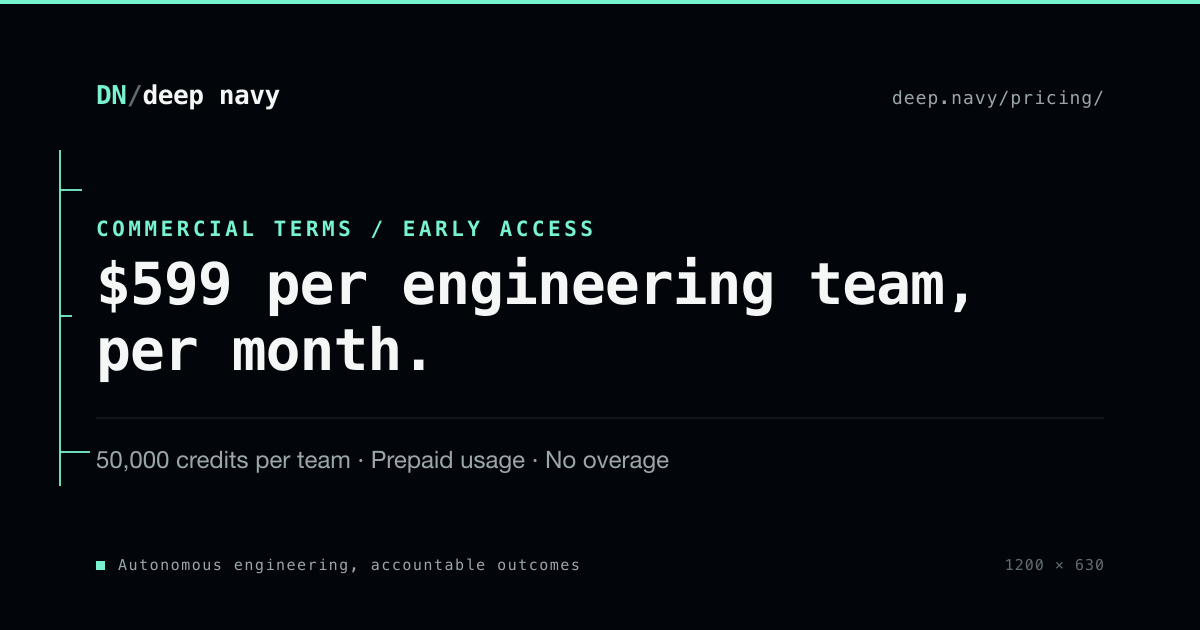
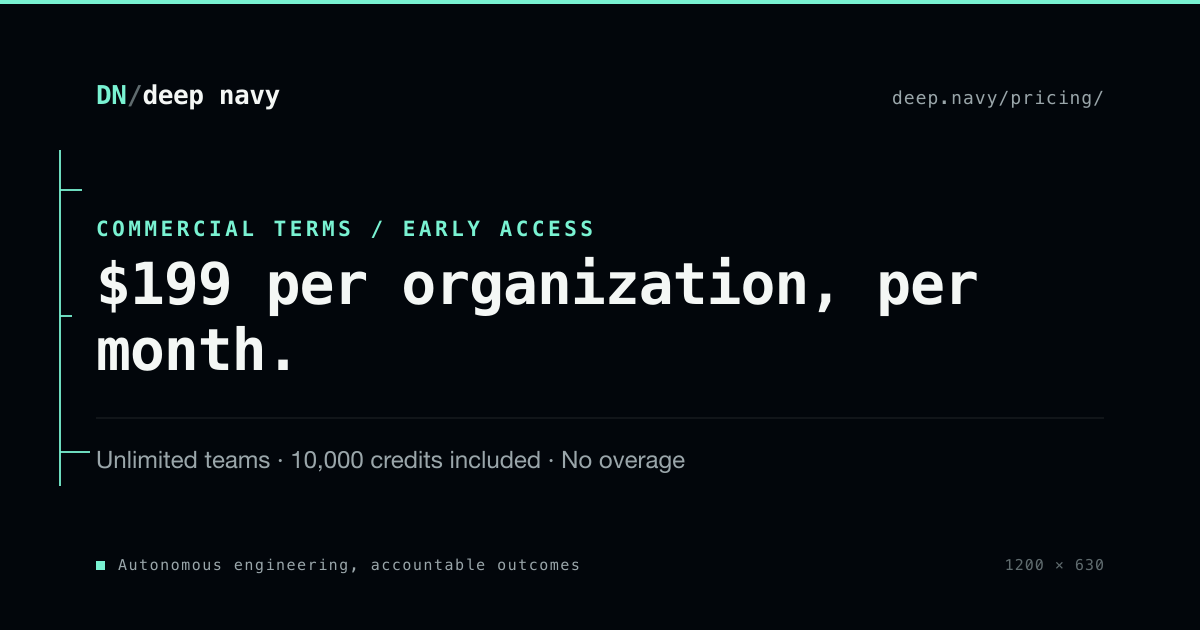
The site catches up: $199 for the organization, unlimited teams
platform-api removed the per-team charge this morning (ef24ce2). The base
Stripe item now licenses the ORGANIZATION at a quantity pinned to one, both
slot gates are gone, and the included credits are one grant per organization
per billing period rather than one per team. The site was still selling and
still pricing the old plan.

Marketing said the wrong number in four places. The homepage promised "$599 a
month for the team of six, 50,000 credits included"; the pricing page's h1,
its featured plan, its terms table and its own FAQ answered "per provisioned
engineering team" to the question "is this per organization or per team"; the
shared CTA and REDESIGN's "not doing" list agreed with them. All of it now
says what is actually billed: $199 a month for the organization, as many teams
as you run, 10,000 credits for the organization each period, and the
per-engineer add-on above each team's floor of three — which is the one thing
that genuinely still bills per seat, and keeps its designed $199.

The console was pricing a second team as if it were the first. teamPricing
always added the base, so the create screen quoted "Continue to payment —
$199/month" in front of a team the licence already covers, and Settings'
"Manage capacity" quoted a per-team total. teamPricing takes includeBase, the
create flow passes !subscriptionActive, and a covered team now reads
"Included" over "Covered by your subscription — no extra charge" with a button
[…]

diff --git a/assets/js/app.js b/assets/js/app.js
@@ -1868,6 +1868,10 @@
     });
   }
 
+  // The plan's recurring price, with the published figure as the fallback the
+  // create screen needs before the plan has come back. It licenses the
+  // ORGANIZATION, not a team: the name says "unit amount" because that is what
+  // the catalog calls it, and nothing may multiply it by a team count.
   function teamUnitAmountCents() {
     const money = session.billingPlan?.recurringPrice;
     const units = signedInt64Value(money?.units);
@@ -1876,7 +1880,7 @@
       const cents = units * 100n + BigInt(Math.round(nanos / 10_000_000));
       if (cents > 0n) return cents;
     }
-    return 59900n; // $599.00/month founding-team default
+    return 19900n; // $199.00/month founding-organization default
   }
 
   function formatCents(cents) {
@@ -1887,9 +1891,10 @@
     catch { return `$${dollars.toFixed(2)}`; }
   }
 
-  // Engineering-agent count: a floor of three (the adversarial-review floor) up to
-  // fifty. The team base price includes the three floor engineers; each engineer
-  // above the floor is a $199/month add-on, matched against the server.
+  // Engineering-agent count: a floor of three (the adversarial-review floor) up
+  // to fifty. Every team includes its three floor engineers at no extra charge;
+  // each engineer above the floor is a $199/month per-seat add-on, matched
+  // against the server.
   const ENGINEER_FLOOR = launchContract?.ENGINEER_FLOOR ?? 3;
   const ENGINEER_MAX = launchContract?.ENGINEER_MAX ?? 50;
 
@@ -1900,21 +1905,37 @@
     return Math.min(ENGINEER_MAX, Math.max(ENGINEER_FLOOR, parsed));
   }
 
+  // What creating THIS team costs. The base is charged once, by the team that
+  // starts the organization's subscription; every team after it is covered by
+  // that same licence and costs nothing unless it asks for engineers above the
+  // floor. Charging the base again is exactly the bug the unlimited-teams plan
+  // was shipped to end.
   function teamPricingFor(engineerCount) {
-    if (launchContract) return launchContract.teamPricing({ engineerCount, baseCents: teamUnitAmountCents() });
+    const includeBase = !session.subscriptionActive;
+    if (launchContract) return launchContract.teamPricing({ engineerCount, baseCents: teamUnitAmountCents(), includeBase });
     const count = normalizeEngineerCount(engineerCount);
     const additional = Math.max(0, count - ENGINEER_FLOOR);
     const base = teamUnitAmountCents();
     const addon = 19900n;
-    return { engineerCount: count, includedEngineers: ENGINEER_FLOOR, additionalEngineers: additional, baseCents: base, addonCents: addon, addonTotalCents: addon * BigInt(additional), totalCents: base + addon * BigInt(additional) };
+    return { engineerCount: count, includedEngineers: ENGINEER_FLOOR, additionalEngineers: additional, includesBase: includeBase, baseCents: base, addonCents: addon, addonTotalCents: addon * BigInt(additional), totalCents: (includeBase ? base : 0n) + addon * BigInt(additional) };
   }
 
-  // "$599 team (includes 3 engineers)" or, with add-ons,
-  // "$599 team + 2 × $199 engineers = $997/mo".
+  // What this team adds to the bill, in the customer's own arithmetic:
+  //
+  //   first team, floor crew   "$199 a month for your organization
+  //                             (includes 3 engineers, and every team after)"
+  //   later team, floor crew   "Covered by your subscription — no extra charge"
+  //   with engineers above     "… + 2 × $199 engineers = $597/mo"
   function pricingBreakdown(pricing) {
-    const base = `${formatCents(pricing.baseCents)} team`;
-    if (pricing.additionalEngineers <= 0) return `${base} (includes ${pricing.includedEngineers} engineers)`;
-    const engineers = `${pricing.additionalEngineers} × ${formatCents(pricing.addonCents)} engineers`;
+    const engineers = pricing.additionalEngineers > 0
+      ? `${pricing.additionalEngineers} × ${formatCents(pricing.addonCents)} engineers`
+      : "";
+    if (!pricing.includesBase) {
+      if (!engineers) return "Covered by your subscription — no extra charge";
+      return `${engineers} = ${formatCents(pricing.totalCents)}/mo on top of your subscription`;
+    }
+    const base = `${formatCents(pricing.baseCents)} a month for your organization`;
+    if (!engineers) return `${base} (includes ${pricing.includedEngineers} engineers, and every team after this one)`;
     return `${base} + ${engineers} = ${formatCents(pricing.totalCents)}/mo`;
   }
 
@@ -1935,6 +1956,13 @@
     if (!ui.teamSubmit || ui.teamSubmit.dataset.busy === "1") return;
     const pricing = teamPricingFor(ui.engineerInput ? ui.engineerInput.value : ENGINEER_FLOOR);
     const total = `${formatCents(pricing.totalCents)}/month`;
+    // A team the subscription already covers charges nothing, and the button
+    // has to say so: "Continue to payment — $199/month" in front of a free
+    // second team is the paywall the unlimited plan removed.
+    if (pricing.totalCents === 0n) {
+      ui.teamSubmit.textContent = "Create team — covered by your subscription";
+      return;
+    }
     ui.teamSubmit.textContent = savedCardChargeExpected()
       ? `Create team — ${total} on your saved card`
       : `Continue to payment — ${total}`;
@@ -1947,10 +1975,16 @@
     const pricing = teamPricingFor(ui.engineerInput ? ui.engineerInput.value : ENGINEER_FLOOR);
     if (ui.teamPriceAmount) {
       ui.teamPriceAmount.replaceChildren();
-      ui.teamPriceAmount.append(document.createTextNode(formatCents(pricing.totalCents)));
-      const per = document.createElement("small");
-      per.textContent = " / month";
-      ui.teamPriceAmount.append(per);
+      if (pricing.totalCents === 0n) {
+        // Not a zero standing in for a price: it IS the price, and the word is
+        // what says so. A "$0.00" here reads as a reading that failed.
+        ui.teamPriceAmount.append(document.createTextNode("Included"));
+      } else {
+        ui.teamPriceAmount.append(document.createTextNode(formatCents(pricing.totalCents)));
+        const per = document.createElement("small");
+        per.textContent = " / month";
+        ui.teamPriceAmount.append(per);
+      }
     }
     if (ui.teamPriceBreakdown) ui.teamPriceBreakdown.textContent = pricingBreakdown(pricing);
     if (ui.engineerDecrement) ui.engineerDecrement.disabled = pricing.engineerCount <= ENGINEER_FLOOR;
@@ -2750,7 +2784,11 @@
     ui.teamInput.disabled = !ready;
     ui.teamSubmit.disabled = !ready;
     ui.repositoryList.querySelectorAll("input").forEach((checkbox) => { checkbox.disabled = !ready; });
-    updateTeamSubmitLabel();
+    // The whole price block, not just the button. Whether this team costs
+    // anything depends on the subscription, which lands after the first paint:
+    // repainting only the button left the figure above it still charging for a
+    // team the licence already covers.
+    renderTeamSetupPricing();
   }
 
   function setAllStepsUnavailable(message, stateValue = "error") {

diff --git a/assets/js/launch-contract.js b/assets/js/launch-contract.js
@@ -383,7 +383,7 @@
   // The example run: the proof-of-work moment shown BEFORE the paywall.
   //
   // Every measured source on this funnel points at the same weakness — the
-  // customer is asked for $599 before seeing any agent work. Navattic's 2025
+  // customer is asked for $199 before seeing any agent work. Navattic's 2025
   // interactive-demo study (28,000+ demos) measured a 20-25% lift in qualified
   // leads for interactive proof over static claims, and NN/g's first-10-seconds
   // finding says the value proposition has to land immediately.
@@ -459,12 +459,17 @@
     ].filter(Boolean);
   }
 
-  // Team pricing mirrors the server: $599/month per team includes the floor of
-  // three engineering agents; every engineer above the floor is a $199/month
-  // add-on. The floor of three keeps two peer reviewers on every shipped ticket.
+  // Pricing mirrors the server: $199/month licenses the ORGANIZATION and covers
+  // as many teams as it runs, each with the floor of three engineering agents;
+  // every engineer above that floor is a $199/month per-seat add-on. The floor
+  // of three keeps two peer reviewers on every shipped ticket.
+  //
+  // The base was a per-team charge until the licence moved to the organization.
+  // A second team is now free, so the base is charged once — which is why
+  // teamPricing takes includeBase rather than always adding it.
   const ENGINEER_FLOOR = 3;
   const ENGINEER_MAX = 50;
-  const TEAM_BASE_CENTS = 59900n;
+  const ORGANIZATION_BASE_CENTS = 19900n;
   const ENGINEER_ADDON_CENTS = 19900n;
 
   function normalizeEngineerCount(value, { floor = ENGINEER_FLOOR, max = ENGINEER_MAX } = {}) {
@@ -483,23 +488,31 @@
     return null;
   }
 
-  // Pure price calculation: base + addon × max(0, engineerCount − floor). The base
-  // and add-on can be overridden (e.g. from the signed billing plan) but default
-  // to the founding-team figures.
-  function teamPricing({ engineerCount, baseCents, addonCents, floor = ENGINEER_FLOOR, max = ENGINEER_MAX } = {}) {
+  // Pure price calculation: (base if this team starts the subscription) plus
+  // addon × max(0, engineerCount − floor). The base and add-on can be
+  // overridden (e.g. from the signed billing plan) but default to the
+  // founding-organization figures.
+  //
+  // includeBase is the whole difference between the first team and the second.
+  // The first starts the organization's subscription and costs the base; every
+  // team after it is covered by that same licence and costs nothing unless it
+  // asks for engineers above the floor.
+  function teamPricing({ engineerCount, baseCents, addonCents, includeBase = true, floor = ENGINEER_FLOOR, max = ENGINEER_MAX } = {}) {
     const count = normalizeEngineerCount(engineerCount, { floor, max });
     const additional = Math.max(0, count - floor);
-    const base = toCents(baseCents) ?? TEAM_BASE_CENTS;
+    const base = toCents(baseCents) ?? ORGANIZATION_BASE_CENTS;
     const addon = toCents(addonCents) ?? ENGINEER_ADDON_CENTS;
     const addonTotal = addon * BigInt(additional);
+    const charged = includeBase ? base : 0n;
     return Object.freeze({
       engineerCount: count,
       includedEngineers: floor,
       additionalEngineers: additional,
+      includesBase: includeBase,
       baseCents: base,
       addonCents: addon,
       addonTotalCents: addonTotal,
-      totalCents: base + addonTotal
+      totalCents: charged + addonTotal
     });
   }
 
@@ -567,7 +580,7 @@
     LaunchContractError,
     PROVISIONING_STATE,
     REPOSITORY_SELECTION_MODE,
-    TEAM_BASE_CENTS,
+    ORGANIZATION_BASE_CENTS,
     accessibleRepositories,
     buildRepositorySelectionRequest,
     createMutationKeys,

diff --git a/_includes/app-shell.html b/_includes/app-shell.html
@@ -177,13 +177,13 @@
             </fieldset>
             <div class="team-price">
               <div>
-                <div class="team-price-amt" data-team-price-amount>$599<small> / month</small></div>
-                <p class="team-price-breakdown" data-team-price-breakdown>$599 team (includes 3 engineers)</p>
+                <div class="team-price-amt" data-team-price-amount>$199<small> / month</small></div>
+                <p class="team-price-breakdown" data-team-price-breakdown>$199 a month for your organization (includes 3 engineers, and every team after this one)</p>
               </div>
               <p class="form-help form-help-neutral" id="team-name-help">Charged when you confirm. Cancel anytime in Settings.</p>
             </div>
             <p class="form-error" id="team-name-error" data-team-error role="alert" hidden></p>
-            <button class="button button-primary" type="submit" disabled>Continue to payment — $599/month</button>
+            <button class="button button-primary" type="submit" disabled>Continue to payment — $199/month</button>
             <!-- The kit's closing note, told truthfully: the Engineering
                  Manager reads the ticked repositories once the team is live,
                  not the instant the button is pressed. -->

diff --git a/assets/css/main.css b/assets/css/main.css
@@ -1772,7 +1772,7 @@ pre { overflow-x: auto; padding: 1.2rem; border: 1px solid var(--line); border-r
 .settings-list dd { margin: 0; min-width: 0; overflow-wrap: anywhere; color: var(--muted-bright); font-size: .8rem; text-align: right; }
 /* Evidence is a typeface: machine facts (logins, org slugs, card summaries)
    read in mono; money stacks in tabular figures and always carries its unit
-   in the same string ($599.00/month — the renderer never splits them). */
+   in the same string ($199.00/month — the renderer never splits them). */
 .settings-list dd.settings-fact { overflow: hidden; font-family: var(--font-mono); font-size: .72rem; letter-spacing: .01em; text-overflow: ellipsis; white-space: nowrap; overflow-wrap: normal; }
 .settings-list dd.settings-fig { font-family: var(--font-mono); font-size: .78rem; font-variant-numeric: tabular-nums; white-space: nowrap; }
 .settings-list dd.settings-emphasis { color: var(--ink); font-size: .95rem; font-weight: 600; }

diff --git a/_includes/cta.html b/_includes/cta.html
@@ -3,7 +3,7 @@
     <div>
       <span class="eyebrow">Early access / founding teams</span>
       <h2 id="cta-title">Start with one bounded objective.</h2>
-      <p>$599/month per team — a Product Manager, an Engineering Manager, a Designer, and three engineers working your repositories. Add engineers for $199/month each.</p>
+      <p>$199/month for your organization — as many teams as you need, each with a Product Manager, an Engineering Manager, a Designer, and three engineers working your repositories. Add engineers for $199/month each.</p>
       <p class="cta-reassure">Sign in with GitHub — free until you create a team. No setup fees. Cancel any time.</p>
     </div>
     <div class="button-row">

diff --git a/pricing/index.md b/pricing/index.md
@@ -10,8 +10,8 @@ updated: 2026-08-22
 <section class="lp-hero lp-hero-sub">
   <div class="lp-shell dn-stagger">
     <p class="lp-eyebrow">Commercial terms · early access</p>
-    <h1 class="lp-h1 lp-h1-sub">$599 per team, per month. <em>$199 per added engineer</em>.</h1>
-    <p class="lp-lede">Every team ships with a Product Manager, an Engineering Manager, a Designer, and three engineers, plus 50,000 engineering credits per paid period. Five engineers? $599 + 2 × $199 = $997/month — the app shows the exact total before you pay, and there are no setup fees or hidden charges. Work stops before an unpaid balance can accrue.</p>
+    <h1 class="lp-h1 lp-h1-sub">$199 per organization, per month. <em>Unlimited teams</em>.</h1>
+    <p class="lp-lede">One subscription covers your whole organization and as many teams as you want to run. Every team ships with a Product Manager, an Engineering Manager, a Designer, and three engineers, and the organization gets 10,000 engineering credits each billing period. Want a fourth engineer on a team? $199 a month for that seat — the app shows the exact total before you pay, and there are no setup fees or hidden charges. Work stops before an unpaid balance can accrue.</p>
     <p class="lp-note">Term sheet v0.3 · Updated July 17, 2026</p>
   </div>
 </section>
@@ -19,16 +19,16 @@ updated: 2026-08-22
 <section class="lp-section">
   <div class="lp-shell">
     <p class="lp-label">The plans</p>
-    <h2 class="lp-h2">Per team, not per token.</h2>
-    <p class="lp-sub">One subscription per provisioned team, engineers added as line items, usage prepaid as credits. Every number below is the number Stripe bills; the app shows the exact monthly total on the pay button before you pay.</p>
+    <h2 class="lp-h2">Per organization, not per token.</h2>
+    <p class="lp-sub">One subscription per organization, engineers above the floor added as line items, usage prepaid as credits. Every number below is the number Stripe bills; the app shows the exact monthly total on the pay button before you pay.</p>
     <ul class="lp-plans lp-stagger-reveal">
       <li class="lp-plan lp-plan-featured dn-reveal">
-        <span class="lp-plan-name">Founding team</span>
-        <span class="lp-plan-price">$599 <span class="lp-plan-per">per team · month</span></span>
-        <p class="lp-plan-body">The six specialists, working in repositories you choose.</p>
+        <span class="lp-plan-name">Founding organization</span>
+        <span class="lp-plan-price">$199 <span class="lp-plan-per">per organization · month</span></span>
+        <p class="lp-plan-body">As many teams of six specialists as you need, working in repositories you choose.</p>
         <ul class="lp-plan-list">
-          <li>Product manager, engineering manager, designer, three engineers</li>
-          <li>50,000 engineering credits per team, per paid billing period</li>
+          <li>Unlimited teams — each with a product manager, engineering manager, designer and three engineers</li>
+          <li>10,000 engineering credits for the whole organization, per paid billing period</li>
           <li>Unlimited issues and pull requests</li>
           <li>Two peer reviews plus manager approval on every merge</li>
           <li>Monthly; cancellation takes effect at period end</li>
@@ -48,7 +48,7 @@ updated: 2026-08-22
       <li class="lp-plan dn-reveal">
         <span class="lp-plan-name">Credit top-up</span>
         <span class="lp-plan-price">$100 <span class="lp-plan-per">per 10,000 credits</span></span>
-        <p class="lp-plan-body">Prepaid usage for the selected team. No postpaid overage, ever.</p>
+        <p class="lp-plan-body">Prepaid usage on top of the included grant. No postpaid overage, ever.</p>
         <ul class="lp-plan-list">
           <li>1 credit = $0.01 of billable model, compute, storage, and service usage</li>
           <li>Credits post only after a signed paid webhook — checkout completion in the browser is not fulfillment</li>
@@ -56,7 +56,7 @@ updated: 2026-08-22
         </ul>
       </li>
     </ul>
-    <p class="lp-plans-note">Additional repositories are customer controlled: an organization owner updates GitHub App access, then you update the deep navy selection. Every provisioned team consumes one paid subscription slot — the API blocks creation when no paid slot remains.</p>
+    <p class="lp-plans-note">Additional repositories are customer controlled: an organization owner updates GitHub App access, then you update the deep navy selection. Creating a team needs an active subscription, an active GitHub installation and a repository it can reach — not a spare slot, because there are no slots to run out of.</p>
   </div>
 </section>
 
@@ -64,9 +64,9 @@ updated: 2026-08-22
   <div class="lp-shell">
     <p class="lp-label">The terms sheet</p>
     <h2 class="lp-h2" id="terms-title">Every commercial field, and where it is confirmed.</h2>
-    <p class="lp-sub">Paid capacity, prepaid usage, and one accountable team ledger. Each field names the place you can read it back — a term that cannot be checked does not belong on this page.</p>
-    <div class="data-table-wrap"><table class="data-table"><thead><tr><th>Commercial field</th><th>Launch term</th><th>Where confirmed</th></tr></thead><tbody><tr><td>Team subscription</td><td>$599 USD per team each month — includes the Product Manager, Engineering Manager, Designer, and three engineers</td><td>Signed-in plan, subscription quantity, and Stripe invoice</td></tr><tr><td>Additional engineers</td><td>$199 USD per engineer each month, from the fourth engineer up to fifty; three is the floor so every shipped change gets two peer reviews</td><td>Per-engineer subscription item and Stripe invoice</td></tr><tr><td>Changing engineer count</td><td>Increasing charges the prorated remainder of the period now; decreasing credits the unused portion to your next invoice</td><td>Team settings and the following Stripe invoice</td></tr><tr><td>Included credits</td><td>50,000 engineering credits per team per paid billing period</td><td>Webhook-confirmed team credit ledger</td></tr><tr><td>Credit value</td><td>1 credit = $0.01 of billable model, compute, storage, and service usage</td><td>Plan and measured usage ledger</td></tr><tr><td>Prepaid top-up</td><td>$100 USD for 10,000 additional team credits</td><td>Server-owned catalog and Stripe payment</td></tr><tr><td>Additional usage</td><td>No postpaid overage; a positive reserved balance is required before work starts</td><td>Team budget and usage reservation</td></tr><tr><td>Renewal and cancellation</td><td>Monthly; cancellation takes effect at period end</td><td>Stripe subscription and Billing Portal</td></tr></tbody></table></div>
-    <p class="lp-sub lp-terms-note">Stripe renders the encrypted payment fields inside deep navy’s own checkout — card, Apple Pay, or Google Pay. Your card details never touch deep navy’s servers, the exact monthly total is on the pay button, and the card is saved once and reused for every additional team.</p>
+    <p class="lp-sub">One organization licence, prepaid usage, and one accountable ledger per team. Each field names the place you can read it back — a term that cannot be checked does not belong on this page.</p>
+    <div class="data-table-wrap"><table class="data-table"><thead><tr><th>Commercial field</th><th>Launch term</th><th>Where confirmed</th></tr></thead><tbody><tr><td>Organization subscription</td><td>$199 USD per organization each month — unlimited teams, each with a Product Manager, Engineering Manager, Designer, and three engineers</td><td>Signed-in plan, the Billing screen, and the Stripe invoice</td></tr><tr><td>Additional engineers</td><td>$199 USD per engineer each month, from the fourth engineer up to fifty; three is the floor so every shipped change gets two peer reviews</td><td>Per-engineer subscription item and Stripe invoice</td></tr><tr><td>Changing engineer count</td><td>Increasing charges the prorated remainder of the period now; decreasing credits the unused portion to your next invoice</td><td>Team settings and the following Stripe invoice</td></tr><tr><td>Included credits</td><td>10,000 engineering credits for the whole organization per paid billing period</td><td>Webhook-confirmed credit ledger</td></tr><tr><td>Credit value</td><td>1 credit = $0.01 of billable model, compute, storage, and service usage</td><td>Plan and measured usage ledger</td></tr><tr><td>Prepaid top-up</td><td>$100 USD for 10,000 additional credits</td><td>Server-owned catalog and Stripe payment</td></tr><tr><td>Additional usage</td><td>No postpaid overage; a positive reserved balance is required before work starts</td><td>Team budget and usage reservation</td></tr><tr><td>Renewal and cancellation</td><td>Monthly; cancellation takes effect at period end</td><td>Stripe subscription and Billing Portal</td></tr></tbody></table></div>
+    <p class="lp-sub lp-terms-note">Stripe renders the encrypted payment fields inside deep navy’s own checkout — card, Apple Pay, or Google Pay. Your card details never touch deep navy’s servers, the exact monthly total is on the pay button, and the card is saved once — a second team is covered by the same subscription and charges nothing.</p>
     <div class="lp-cta"><a class="lp-btn lp-btn-github" href="{{ '/app/?signin=1' | relative_url }}">Create your team</a><a class="lp-btn lp-btn-quiet" href="mailto:hello@deep.navy?subject=deep%20navy%20pilot%20terms">Discuss terms</a></div>
   </div>
 </section>
@@ -86,11 +86,11 @@ updated: 2026-08-22
       </div>
       <div class="lp-faq-item dn-reveal">
         <dt class="lp-faq-q">Can usage exceed the available balance?</dt>
-        <dd class="lp-faq-a">No postpaid overage is enabled. The runtime must reserve a positive team balance before billable work begins; otherwise it stops and asks for a prepaid top-up.</dd>
+        <dd class="lp-faq-a">No postpaid overage is enabled. The runtime must reserve a positive balance from the organization’s credit pool before billable work begins; otherwise the team stops and asks for a prepaid top-up.</dd>
       </div>
       <div class="lp-faq-item dn-reveal">
-        <dt class="lp-faq-q">Is the $599 price per organization or per team?</dt>
-        <dd class="lp-faq-a">Per provisioned engineering team. Every non-deleted team requires a paid subscription slot and receives its own period allowance and attributable usage ledger.</dd>
+        <dt class="lp-faq-q">Is the $199 price per organization or per team?</dt>
+        <dd class="lp-faq-a">Per organization. One subscription licenses the whole organization and covers as many teams as you run — a second team costs nothing. Each team still keeps its own attributable usage ledger, and the included credits are one grant the organization shares.</dd>
       </div>
       <div class="lp-faq-item dn-reveal">
         <dt class="lp-faq-q">Where does payment happen?</dt>

diff --git a/index.md b/index.md
@@ -22,7 +22,7 @@ extra_css: /assets/css/home.css
       <a class="lp-btn lp-btn-github" href="{{ '/app/?signin=1' | relative_url }}"><svg class="github-mark" width="20" height="20" viewBox="0 0 16 16" role="img" aria-hidden="true" focusable="false"><path fill="currentColor" d="M8 0C3.58 0 0 3.58 0 8c0 3.54 2.29 6.53 5.47 7.59.4.07.55-.17.55-.38 0-.19-.01-.82-.01-1.49-2.01.37-2.53-.49-2.69-.94-.09-.23-.48-.94-.82-1.13-.28-.15-.68-.52-.01-.53.63-.01 1.08.58 1.23.82.72 1.21 1.87.87 2.33.66.07-.52.28-.87.51-1.07-1.78-.2-3.64-.89-3.64-3.95 0-.87.31-1.59.82-2.15-.08-.2-.36-1.02.08-2.12 0 0 .67-.21 2.2.82a7.65 7.65 0 0 1 2-.27c.68 0 1.36.09 2 .27 1.53-1.04 2.2-.82 2.2-.82.44 1.1.16 1.92.08 2.12.51.56.82 1.27.82 2.15 0 3.07-1.87 3.75-3.65 3.95.29.25.54.73.54 1.48 0 1.07-.01 1.93-.01 2.2 0 .21.15.46.55.38A8.013 8.013 0 0 0 16 8c0-4.42-3.58-8-8-8Z"/></svg>Continue with GitHub</a>
       <a class="lp-btn lp-btn-quiet" href="#how">See how a team works</a>
     </div>
-    <p class="lp-note">$599 a month for the team of six, 50,000 credits included, cancel any time. There is no overage: the team stops and asks rather than spending past your balance.</p>
+    <p class="lp-note">$199 a month for your organization — as many teams of six as you need, 10,000 credits included each month, cancel any time. There is no overage: the team stops and asks rather than spending past your balance.</p>
   </div>
 </section>
 
@@ -288,7 +288,7 @@ extra_css: /assets/css/home.css
   <div class="lp-shell">
     <span class="lp-mark-badge" aria-hidden="true"></span>
     <h2 class="lp-h2">Put a team on your repository.</h2>
-    <p class="lp-sub">$599 a month. Cancel any time.</p>
+    <p class="lp-sub">$199 a month, unlimited teams. Cancel any time.</p>
     <div class="lp-cta">
       <a class="lp-btn lp-btn-github" href="{{ '/app/?signin=1' | relative_url }}"><svg class="github-mark" width="20" height="20" viewBox="0 0 16 16" role="img" aria-hidden="true" focusable="false"><path fill="currentColor" d="M8 0C3.58 0 0 3.58 0 8c0 3.54 2.29 6.53 5.47 7.59.4.07.55-.17.55-.38 0-.19-.01-.82-.01-1.49-2.01.37-2.53-.49-2.69-.94-.09-.23-.48-.94-.82-1.13-.28-.15-.68-.52-.01-.53.63-.01 1.08.58 1.23.82.72 1.21 1.87.87 2.33.66.07-.52.28-.87.51-1.07-1.78-.2-3.64-.89-3.64-3.95 0-.87.31-1.59.82-2.15-.08-.2-.36-1.02.08-2.12 0 0 .67-.21 2.2.82a7.65 7.65 0 0 1 2-.27c.68 0 1.36.09 2 .27 1.53-1.04 2.2-.82 2.2-.82.44 1.1.16 1.92.08 2.12.51.56.82 1.27.82 2.15 0 3.07-1.87 3.75-3.65 3.95.29.25.54.73.54 1.48 0 1.07-.01 1.93-.01 2.2 0 .21.15.46.55.38A8.013 8.013 0 0 0 16 8c0-4.42-3.58-8-8-8Z"/></svg>Continue with GitHub</a>
       <a class="lp-btn lp-btn-quiet" href="{{ '/pricing/' | relative_url }}">Pricing detail</a>

diff --git a/REDESIGN.md b/REDESIGN.md
@@ -314,7 +314,7 @@ makes the product real.
 
 ## Not doing
 
-- No free tier. Priced at $599/month, one team.
+- No free tier. Priced at $199/month per organization, unlimited teams.
 - No Tailwind: the CSP is style-src 'self' and the hand-written system is
   coherent. A build step would fight it.
 - No charts until there is a series worth plotting. Chart.js when spend over
